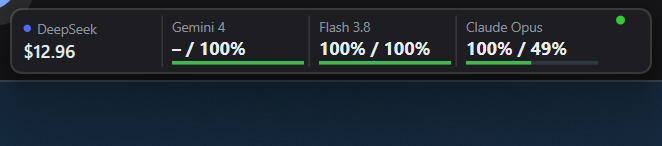
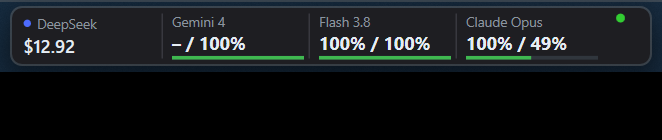
fix: 작업표시줄 위에 겹쳐 표시하면서 깜빡임 제거 (owned window)
원인: 독과 작업표시줄이 모두 topmost라 클릭할 때마다 작업표시줄이 위로 올라오고
타이머가 독을 다시 올리며 z-순서가 충돌.

수정:
- 독을 작업표시줄의 소유 창(SetWindowLongPtr GWLP_HWNDPARENT)으로 설정.
  owned window는 항상 owner 위에 그려지고 owner와 함께 이동하므로 클릭해도 가려지지 않음.
- 다시 작업표시줄 위(겹침)로 배치 (DockLayout.PreferOnTaskbar=true)
- 500ms topmost 재설정은 '실제로 작업표시줄에 가려졌을 때'만 수행
- Explorer 재시작으로 독 창이 파괴되면 자동 재생성 (ShutdownMode=OnExplicitShutdown,
  재생성 5회/분 제한, 종료는 App.RequestExit로 통일)
- 플라이아웃: 한 번도 활성화되지 않았으면 Deactivated로 닫지 않음
  (NOACTIVATE owner 때문에 Activate가 거부되는 경우 대비)
- 재생성 시 이전 창의 타이머/트레이 정리

검증: 빌드 경고 0, 테스트 25/25.
30ms 간격 60회 샘플(작업표시줄 클릭 6회 포함)에서 독이 가려지거나 숨겨진 프레임 0회.
WM_CLOSE로 창을 강제 파괴해도 자동 재생성되어 프로세스 유지 확인.

diff --git a/src/AiUsageDock.App/App.xaml b/src/AiUsageDock.App/App.xaml
@@ -1,7 +1,8 @@
 <Application x:Class="AiUsageDock.App.App"
              xmlns="http://schemas.microsoft.com/winfx/2006/xaml/presentation"
              xmlns:x="http://schemas.microsoft.com/winfx/2006/xaml"
-             xmlns:local="clr-namespace:AiUsageDock.App">
+             xmlns:local="clr-namespace:AiUsageDock.App"
+             ShutdownMode="OnExplicitShutdown">
     <Application.Resources>
 
     </Application.Resources>

diff --git a/src/AiUsageDock.App/MainWindow.xaml.cs b/src/AiUsageDock.App/MainWindow.xaml.cs
@@ -38,6 +38,7 @@ public partial class MainWindow : Window
     private TrayIconHost? _tray;
     private FlyoutWindow? _flyout;
     private IntPtr _hwnd;
+    private IntPtr _ownedTaskbar;
     private DockRect _lastDockRect;
     private bool _hiddenForFullscreen;
     private bool _isSettingsOpen;
@@ -86,7 +87,15 @@ public partial class MainWindow : Window
         _store.Changed += () => Dispatcher.InvokeAsync(UpdateDockUi);
         SourceInitialized += OnSourceInitialized;
         Loaded += OnLoaded;
-        Closed += (_, _) => _tray?.Dispose();
+        Closed += (_, _) =>
+        {
+            // Stop polling before the window goes away; the app may recreate it (Explorer restart).
+            _topmostTimer.Stop();
+            _agTimer.Stop();
+            _dsTimer.Stop();
+            _tray?.Dispose();
+            _tray = null;
+        };
     }
 
     private void OnSourceInitialized(object? sender, EventArgs e)
@@ -119,7 +128,7 @@ public partial class MainWindow : Window
         _tray.OpenRequested += () => Dispatcher.Invoke(ShowFlyout);
         _tray.RefreshRequested += () => Dispatcher.Invoke(() => _ = RefreshAllAsync());
         _tray.SettingsRequested += () => Dispatcher.Invoke(OpenSettingsWindow);
-        _tray.ExitRequested += () => Dispatcher.Invoke(() => Application.Current.Shutdown());
+        _tray.ExitRequested += () => Dispatcher.Invoke(App.RequestExit);
     }
 
     private void RestoreCachedSnapshots()
@@ -222,6 +231,14 @@ public partial class MainWindow : Window
         var dpi = VisualTreeHelper.GetDpi(this);
         var scale = dpi.DpiScaleX > 0 ? dpi.DpiScaleX : 1.0;
 
+        // Owning the dock to the taskbar keeps it above the bar without fighting for z-order:
+        // an owned window always travels with its owner, so clicking the taskbar cannot cover it.
+        if (taskbar.Handle != _ownedTaskbar)
+        {
+            NativeMethods.SetWindowLongPtr(_hwnd, NativeMethods.GWLP_HWNDPARENT, taskbar.Handle);
+            _ownedTaskbar = taskbar.Handle;
+        }
+
         var layout = DockLayout.Compute(new DockLayoutRequest(
             taskbar.Rect,
             taskbar.Edge,
@@ -234,7 +251,7 @@ public partial class MainWindow : Window
             OffsetPx: _settings.Dock?.OffsetX ?? 0,
             TrayReserveDip: TrayReserveDip,
             GapDip: 4,
-            PreferOnTaskbar: false));
+            PreferOnTaskbar: true));
 
         if (Math.Abs(Height - layout.HeightDip) > 0.35)
         {
@@ -349,3 +366,4 @@ public partial class MainWindow : Window
         }
     }
 }
+

diff --git a/src/AiUsageDock.App/App.xaml.cs b/src/AiUsageDock.App/App.xaml.cs
@@ -1,6 +1,7 @@
 using System;
 using System.IO;
 using System.Threading;
+using System.Threading.Tasks;
 using System.Windows;
 
 namespace AiUsageDock.App;
@@ -15,7 +16,18 @@ public partial class App : Application
         "AiUsageDock",
         "startup.log");
 
+    private static bool _exiting;
+    private static int _restarts;
+    private static DateTimeOffset _restartWindowStart = DateTimeOffset.UtcNow;
+
     private Mutex? _instanceMutex;
+
+    /// <summary>Single place for tray/flyout exit so auto-recreation does not fight it.</summary>
+    public static void RequestExit()
+    {
+        _exiting = true;
+        Current?.Shutdown();
+    }
 
     protected override void OnStartup(StartupEventArgs e)
     {
@@ -49,8 +61,48 @@ public partial class App : Application
         base.OnStartup(e);
 
         var window = new MainWindow();
+        window.Closed += OnMainWindowClosed;
         MainWindow = window;
         window.Show();
+    }
+
+    /// <summary>
+    /// The dock is owned by the taskbar, so an Explorer restart destroys it. Recreate it instead
+    /// of exiting (with a small rate limit so a crash loop cannot spin forever).
+    /// </summary>
+    private void OnMainWindowClosed(object? sender, EventArgs e)
+    {
+        if (_exiting)
+        {
+            return;
+        }
+
+        var now = DateTimeOffset.UtcNow;
+        if (now - _restartWindowStart > TimeSpan.FromMinutes(1))
+        {
+            _restartWindowStart = now;
+            _restarts = 0;
+        }
+
+        if (++_restarts > 5)
+        {
+            RequestExit();
+            return;
+        }
+
+        Dispatcher.BeginInvoke(async () =>
+        {
+            await Task.Delay(800);
+            if (_exiting)
+            {
+                return;
+            }
+
+            var window = new MainWindow();
+            window.Closed += OnMainWindowClosed;
+            MainWindow = window;
+            window.Show();
+        });
     }
 
     protected override void OnExit(ExitEventArgs e)

diff --git a/src/AiUsageDock.App/FlyoutWindow.xaml.cs b/src/AiUsageDock.App/FlyoutWindow.xaml.cs
@@ -31,6 +31,7 @@ public partial class FlyoutWindow : Window
     private readonly Func<IReadOnlyList<BalanceHistoryPoint>> _getHistory;
     private DateTimeOffset _shownAtUtc;
     private bool _closing;
+    private bool _everActivated;
     private DispatcherTimer? _hintTimer;
 
     public FlyoutWindow(
@@ -59,9 +60,13 @@ public partial class FlyoutWindow : Window
             Activate();
         };
 
+        Activated += (_, _) => _everActivated = true;
+
         Deactivated += (_, _) =>
         {
-            if ((DateTimeOffset.UtcNow - _shownAtUtc).TotalMilliseconds > 250)
+            // Only auto-close once the panel actually had focus. A NOACTIVATE owner can make
+            // Activate() fail, and closing on that first Deactivated hid the panel instantly.
+            if (_everActivated && (DateTimeOffset.UtcNow - _shownAtUtc).TotalMilliseconds > 250)
             {
                 // Closing directly inside WM_ACTIVATE throws (Window.VerifyNotClosing).
                 Dispatcher.BeginInvoke(new Action(SafeClose), System.Windows.Threading.DispatcherPriority.Background);
@@ -439,7 +444,7 @@ public partial class FlyoutWindow : Window
 
     private void OnSettingsClick(object sender, RoutedEventArgs e) => _onOpenSettings();
 
-    private void OnExitClick(object sender, RoutedEventArgs e) => Application.Current.Shutdown();
+    private void OnExitClick(object sender, RoutedEventArgs e) => App.RequestExit();
 
     private static string HealthText(ProviderHealth health) => health switch
     {
@@ -456,3 +461,4 @@ public partial class FlyoutWindow : Window
         _ => Bad
     };
 }
+

diff --git a/src/AiUsageDock.App/MainWindow.UpdateUi.cs b/src/AiUsageDock.App/MainWindow.UpdateUi.cs
@@ -216,7 +216,7 @@ namespace AiUsageDock.App
 
         private async void OnMenuRefreshClick(object sender, RoutedEventArgs e) => await RefreshAllAsync();
         private void OnMenuSettingsClick(object sender, RoutedEventArgs e) => OpenSettingsWindow();
-        private void OnMenuExitClick(object sender, RoutedEventArgs e) => Application.Current.Shutdown();
+        private void OnMenuExitClick(object sender, RoutedEventArgs e) => App.RequestExit();
 
         private void OpenSettingsWindow()
         {
@@ -269,3 +269,4 @@ namespace AiUsageDock.App
         private IReadOnlyList<string> GetPinned() => _settings.Pinned ?? DefaultPinned;
     }
 }
+

diff --git a/src/AiUsageDock.App/Interop/NativeMethods.cs b/src/AiUsageDock.App/Interop/NativeMethods.cs
@@ -8,6 +8,9 @@ namespace AiUsageDock.App.Interop
         // Win32 window style constants
         public const int GWL_EXSTYLE = -20;
 
+        /// <summary>Owner window (SetWindowLongPtr index -8).</summary>
+        public const int GWLP_HWNDPARENT = -8;
+
         public const int WS_EX_TOOLWINDOW = 0x00000080;
         public const int WS_EX_NOACTIVATE = 0x08000000;
         public const int WS_EX_TOPMOST = 0x00000008;
